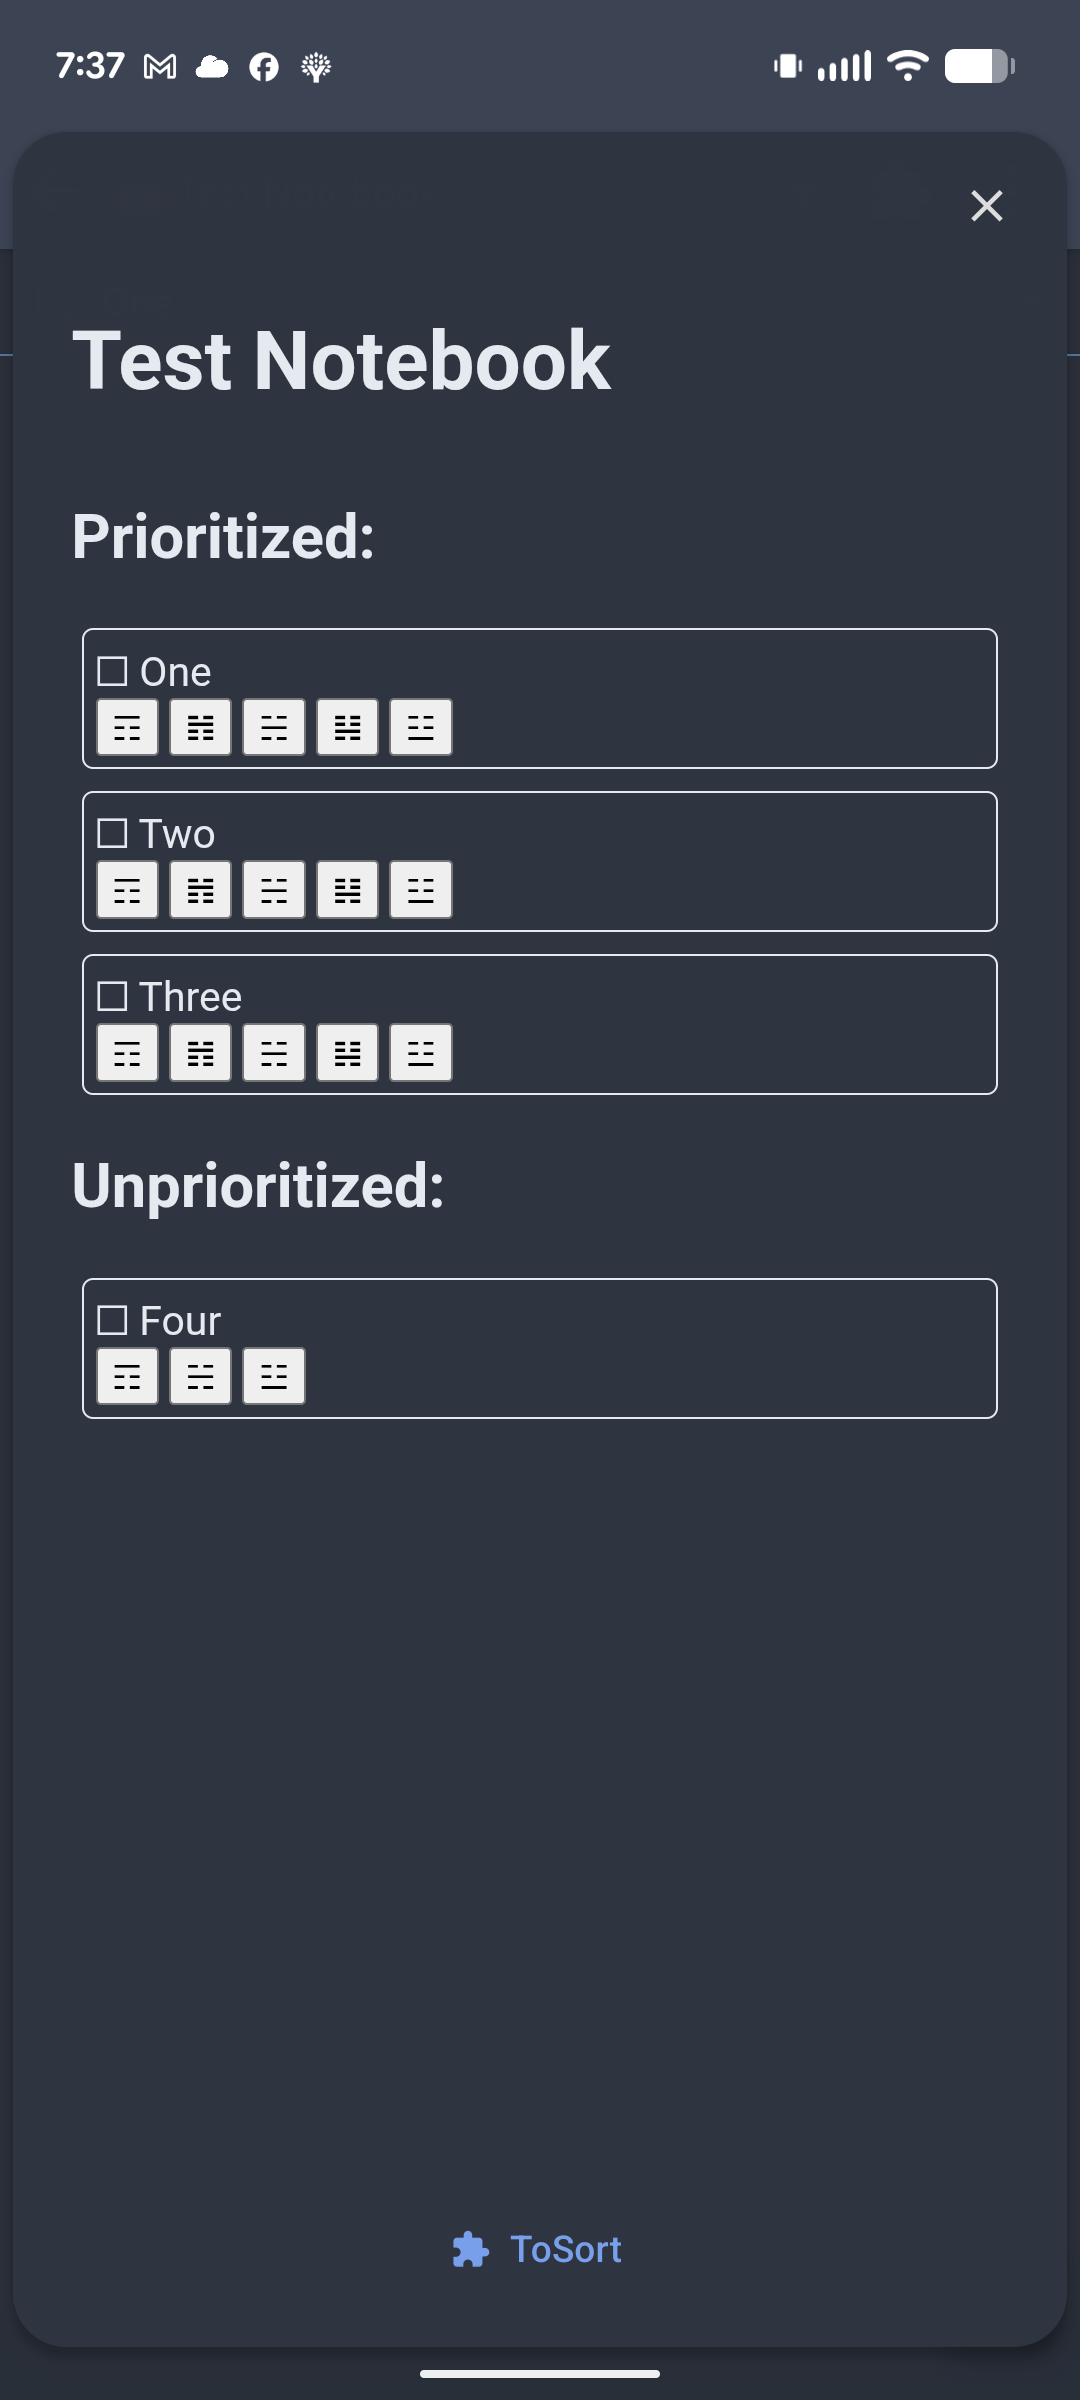
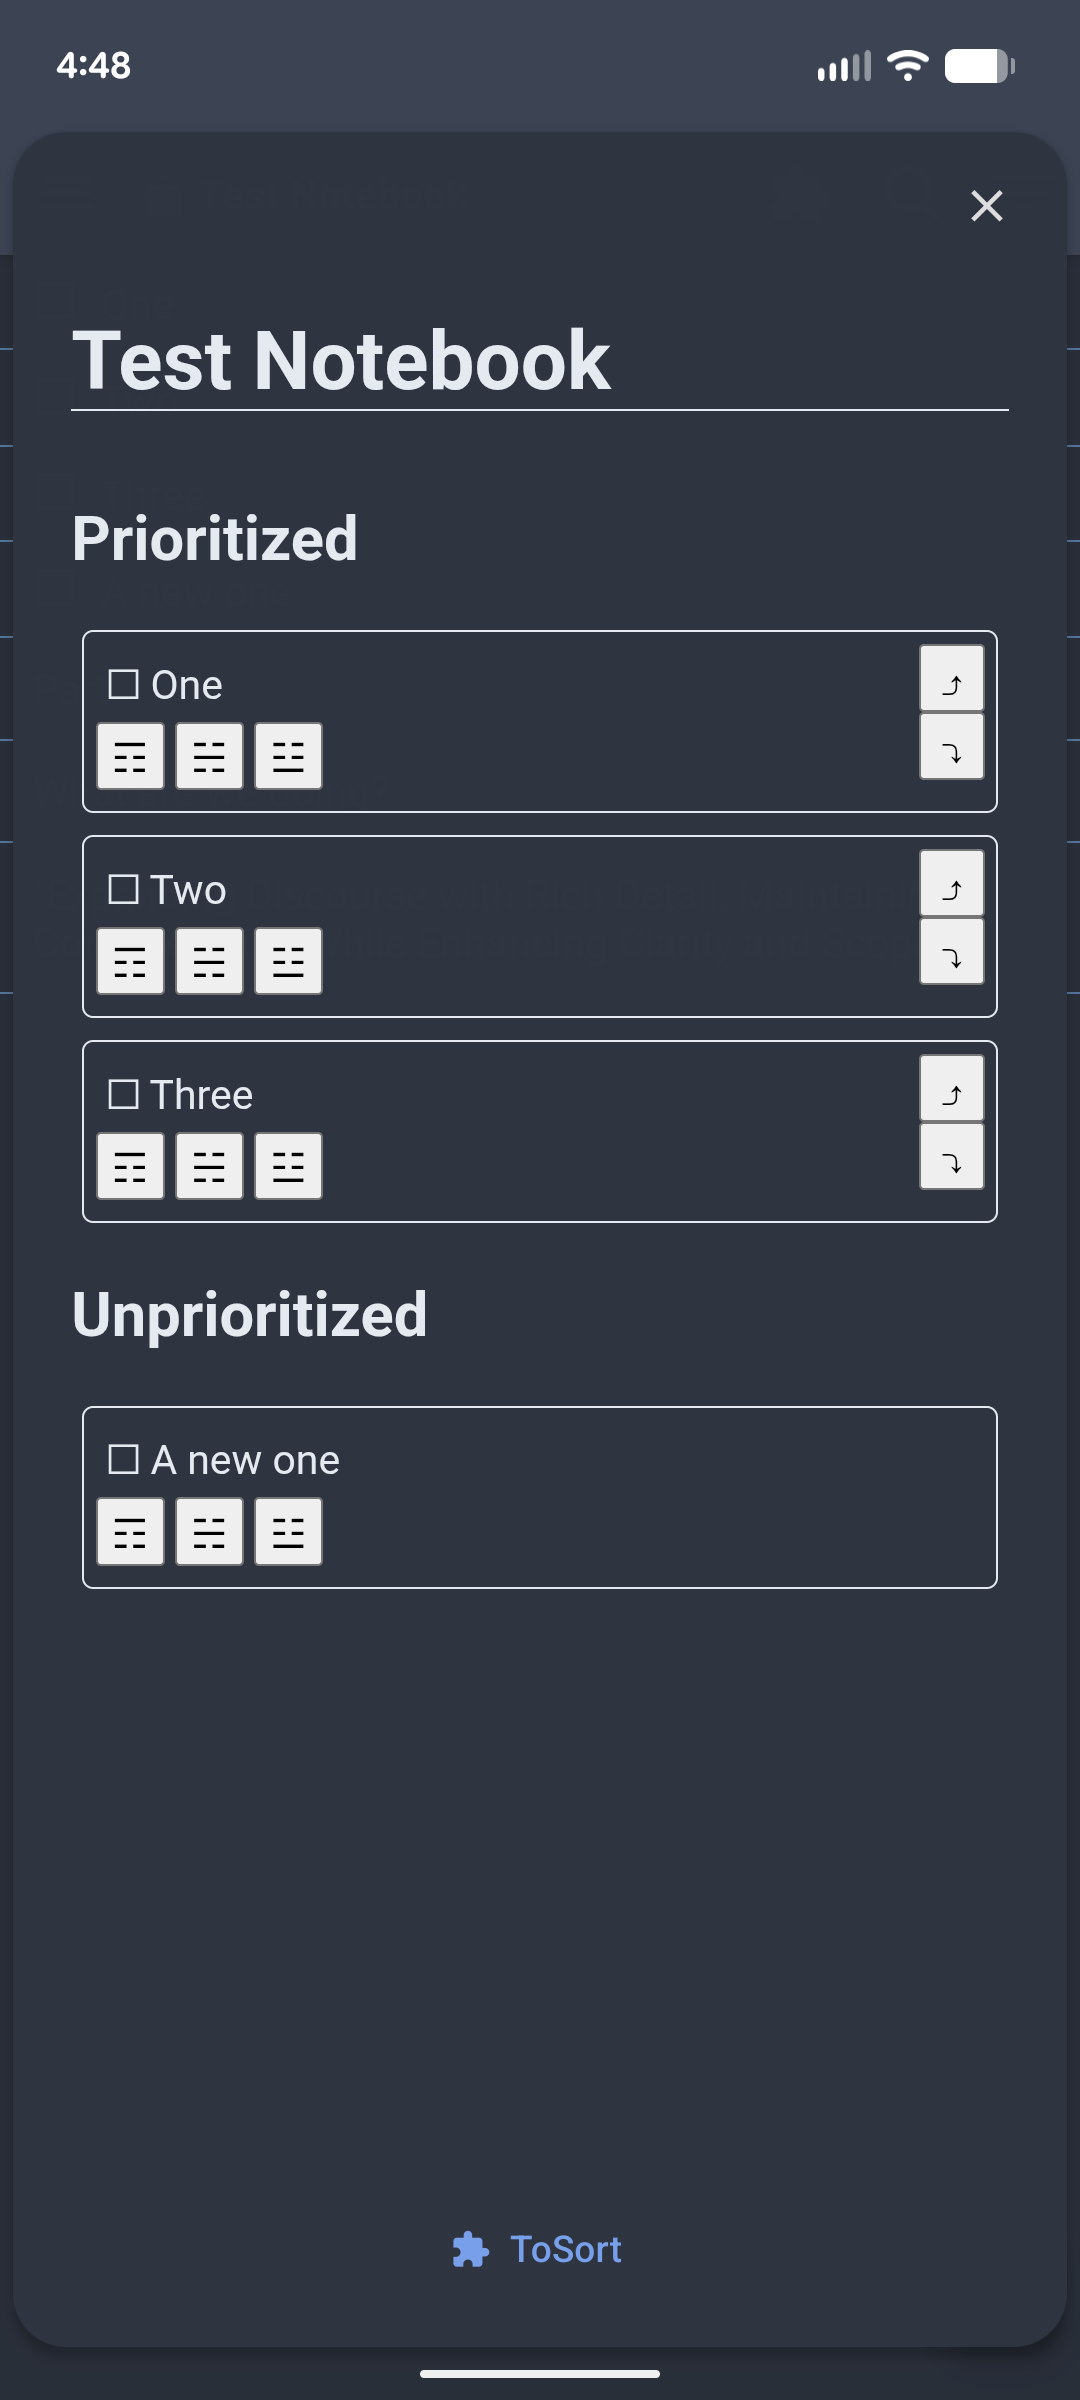
More UI refinement

diff --git a/src/index.ts b/src/index.ts
@@ -41,35 +41,35 @@ async function gatherTodos(folder: Folder): Promise<Todo[]> {
 }
 
 function toDiv(todo: Todo): string {
+  const bottomButtonAction = todo.order > 0 ? "bottom" : "append";
   let result = `
   <div class="todo" id="${todo.id}">
-  ☐ ${todo.title}
-  <br />
-  <button type="button"
-    data-id="${todo.id}"
-    data-action="top">☶</button>`
+  <div class="title">☐ ${todo.title}</div>
+  <div class="coarsebuttons">
+    <button type="button"
+      data-id="${todo.id}"
+      data-action="top">☶</button>
+    <button type="button"
+      data-id="${todo.id}"
+      data-action="middle">☵</button>
+    <button type="button"
+      data-id="${todo.id}"
+      data-action="${bottomButtonAction}">☳</button>
+  </div>`
   if (todo.order > 0) {
     result += `
-  <button type="button"
-    data-id="${todo.id}"
-    data-action="up">𝌥</button>
-  <button type="button"
-    data-id="${todo.id}"
-    data-action="middle">☵</button>
-  <button type="button"
-    data-id="${todo.id}"
-    data-action="down">𝌫</button>
-  <button type="button"
-    data-id="${todo.id}"
-    data-action="bottom">☳</button>`
+  <div class="finebuttons">
+    <button type="button"
+      data-id="${todo.id}"
+      data-action="up">⤴</button>
+    <br />
+    <button type="button"
+      data-id="${todo.id}"
+      data-action="down">⤵</button>
+  </div>`
   } else {
     result += `
-  <button type="button"
-    data-id="${todo.id}"
-    data-action="middle">☵</button>
-  <button type="button"
-    data-id="${todo.id}"
-    data-action="append">☳</button>`
+  <div class="finebuttons"></div>`
   }
   result += `
   </div>
@@ -81,22 +81,41 @@ async function refreshWebview(sorter: Sorter) {
   const prioritized = sorter.todos.filter((todo: Todo) => todo.order > 0).map(toDiv)
   const unprioritized = sorter.todos.filter((todo: Todo) => todo.order == 0).map(toDiv)
   let html = `
-    <h1>${sorter.folder.title}</h1>
-    <h2>Prioritized</h2>
-    ${prioritized.join('\n')}`
+    <h1>${sorter.folder.title}</h1>`
   if (unprioritized.length > 0) {
     html += `
+    <h2>Prioritized</h2>
+    ${prioritized.join('\n')}
     <h2>Unprioritized</h2>
     ${unprioritized.join('\n')}
+    `
+  } else {
+    html += `
+    ${prioritized.join('\n')}
     `
   }
   await joplin.views.panels.setHtml(sorter.panel, html);
 }
 
-async function updateFolderView(sorter: Sorter) {
-  const folder = await joplin.workspace.selectedFolder();
-  if (folder.id === sorter.folder.id) {
-    return
+async function checkForFolderChange(sorter: Sorter) {
+  try {
+    const folder = await joplin.workspace.selectedFolder();
+    if (folder.id != sorter.folder.id) {
+      await updateFolderView(sorter, folder)
+    }
+  } catch (error) {
+    console.error("Could not update ToSort panel:", error);
+  } finally {
+    // Re-check every 1s because there is no "onFolderChange" signal in the plugin API:
+    setTimeout(async () => {
+      checkForFolderChange(sorter)
+    }, 1000);
+  }
+}
+
+async function updateFolderView(sorter: Sorter, folder?: Folder) {
+  if (folder == null) {
+    folder = await joplin.workspace.selectedFolder();
   }
   sorter.folder = folder
 
@@ -255,14 +274,21 @@ joplin.plugins.register({
       panel: panel,
     }
 
-    await updateFolderView(sorter);
-
+    // Event processing
     await joplin.workspace.onNoteSelectionChange(() => {
+      // Note selection change *may* signal a folder change, or note addition, so refresh
+      updateFolderView(sorter);
+    })
+    await joplin.workspace.onSyncComplete(() => {
+      // Sync may change ordering, so always refresh
       updateFolderView(sorter);
     })
 
     await joplin.views.panels.onMessage(panel, (message: any) => {
       moveTodo(sorter, message.data.id, message.data.action)
     })
+
+    // Setup the initial view
+    await checkForFolderChange(sorter)
   },
 });

diff --git a/src/webview.css b/src/webview.css
@@ -1,10 +1,38 @@
+h1 {
+  border-bottom: 1px solid
+}
+
+div.loading {
+  font-style: italics;
+}
+
 div.todo {
   border: 1px solid;
   border-radius: 5px;
   padding: 5px;
   margin: 5px;
+  display: grid;
+  grid-template-columns: 1fr max-content;
+  grid-template-rows: 1fr 1fr;
 }
 
-div.loading {
-  font-style: italics;
+div.title {
+  padding: 5px;
+  grid-column: 1;
+  grid-row: 1;
+}
+
+div.coursebuttons {
+  grid-column: 1;
+  grid-row: 2;
+}
+
+div.finebuttons {
+  text-align: right;
+  grid-column: 2;
+  grid-row: 1 / 3;
+}
+
+button {
+  font-size: 1em;
 }

diff --git a/README.md b/README.md
@@ -27,8 +27,8 @@ But for now, at least the basics work (most of the time):
   4. Each to-do shows its title and some buttons to change its position in the list.
   5. Clicking the buttons moves the to-do to:
      - ☶ Top of list
-     - 𝌥 Up by one
      - ☵ Middle of list
-     - 𝌫 Down by one
      - ☳ Bottom of list
+     - ⤴ Up by one
+     - ⤵ Down by one
   6. The change is immediately shown in the note list (if you have selected custom sorting) and is synced to other clients (like desktop)
